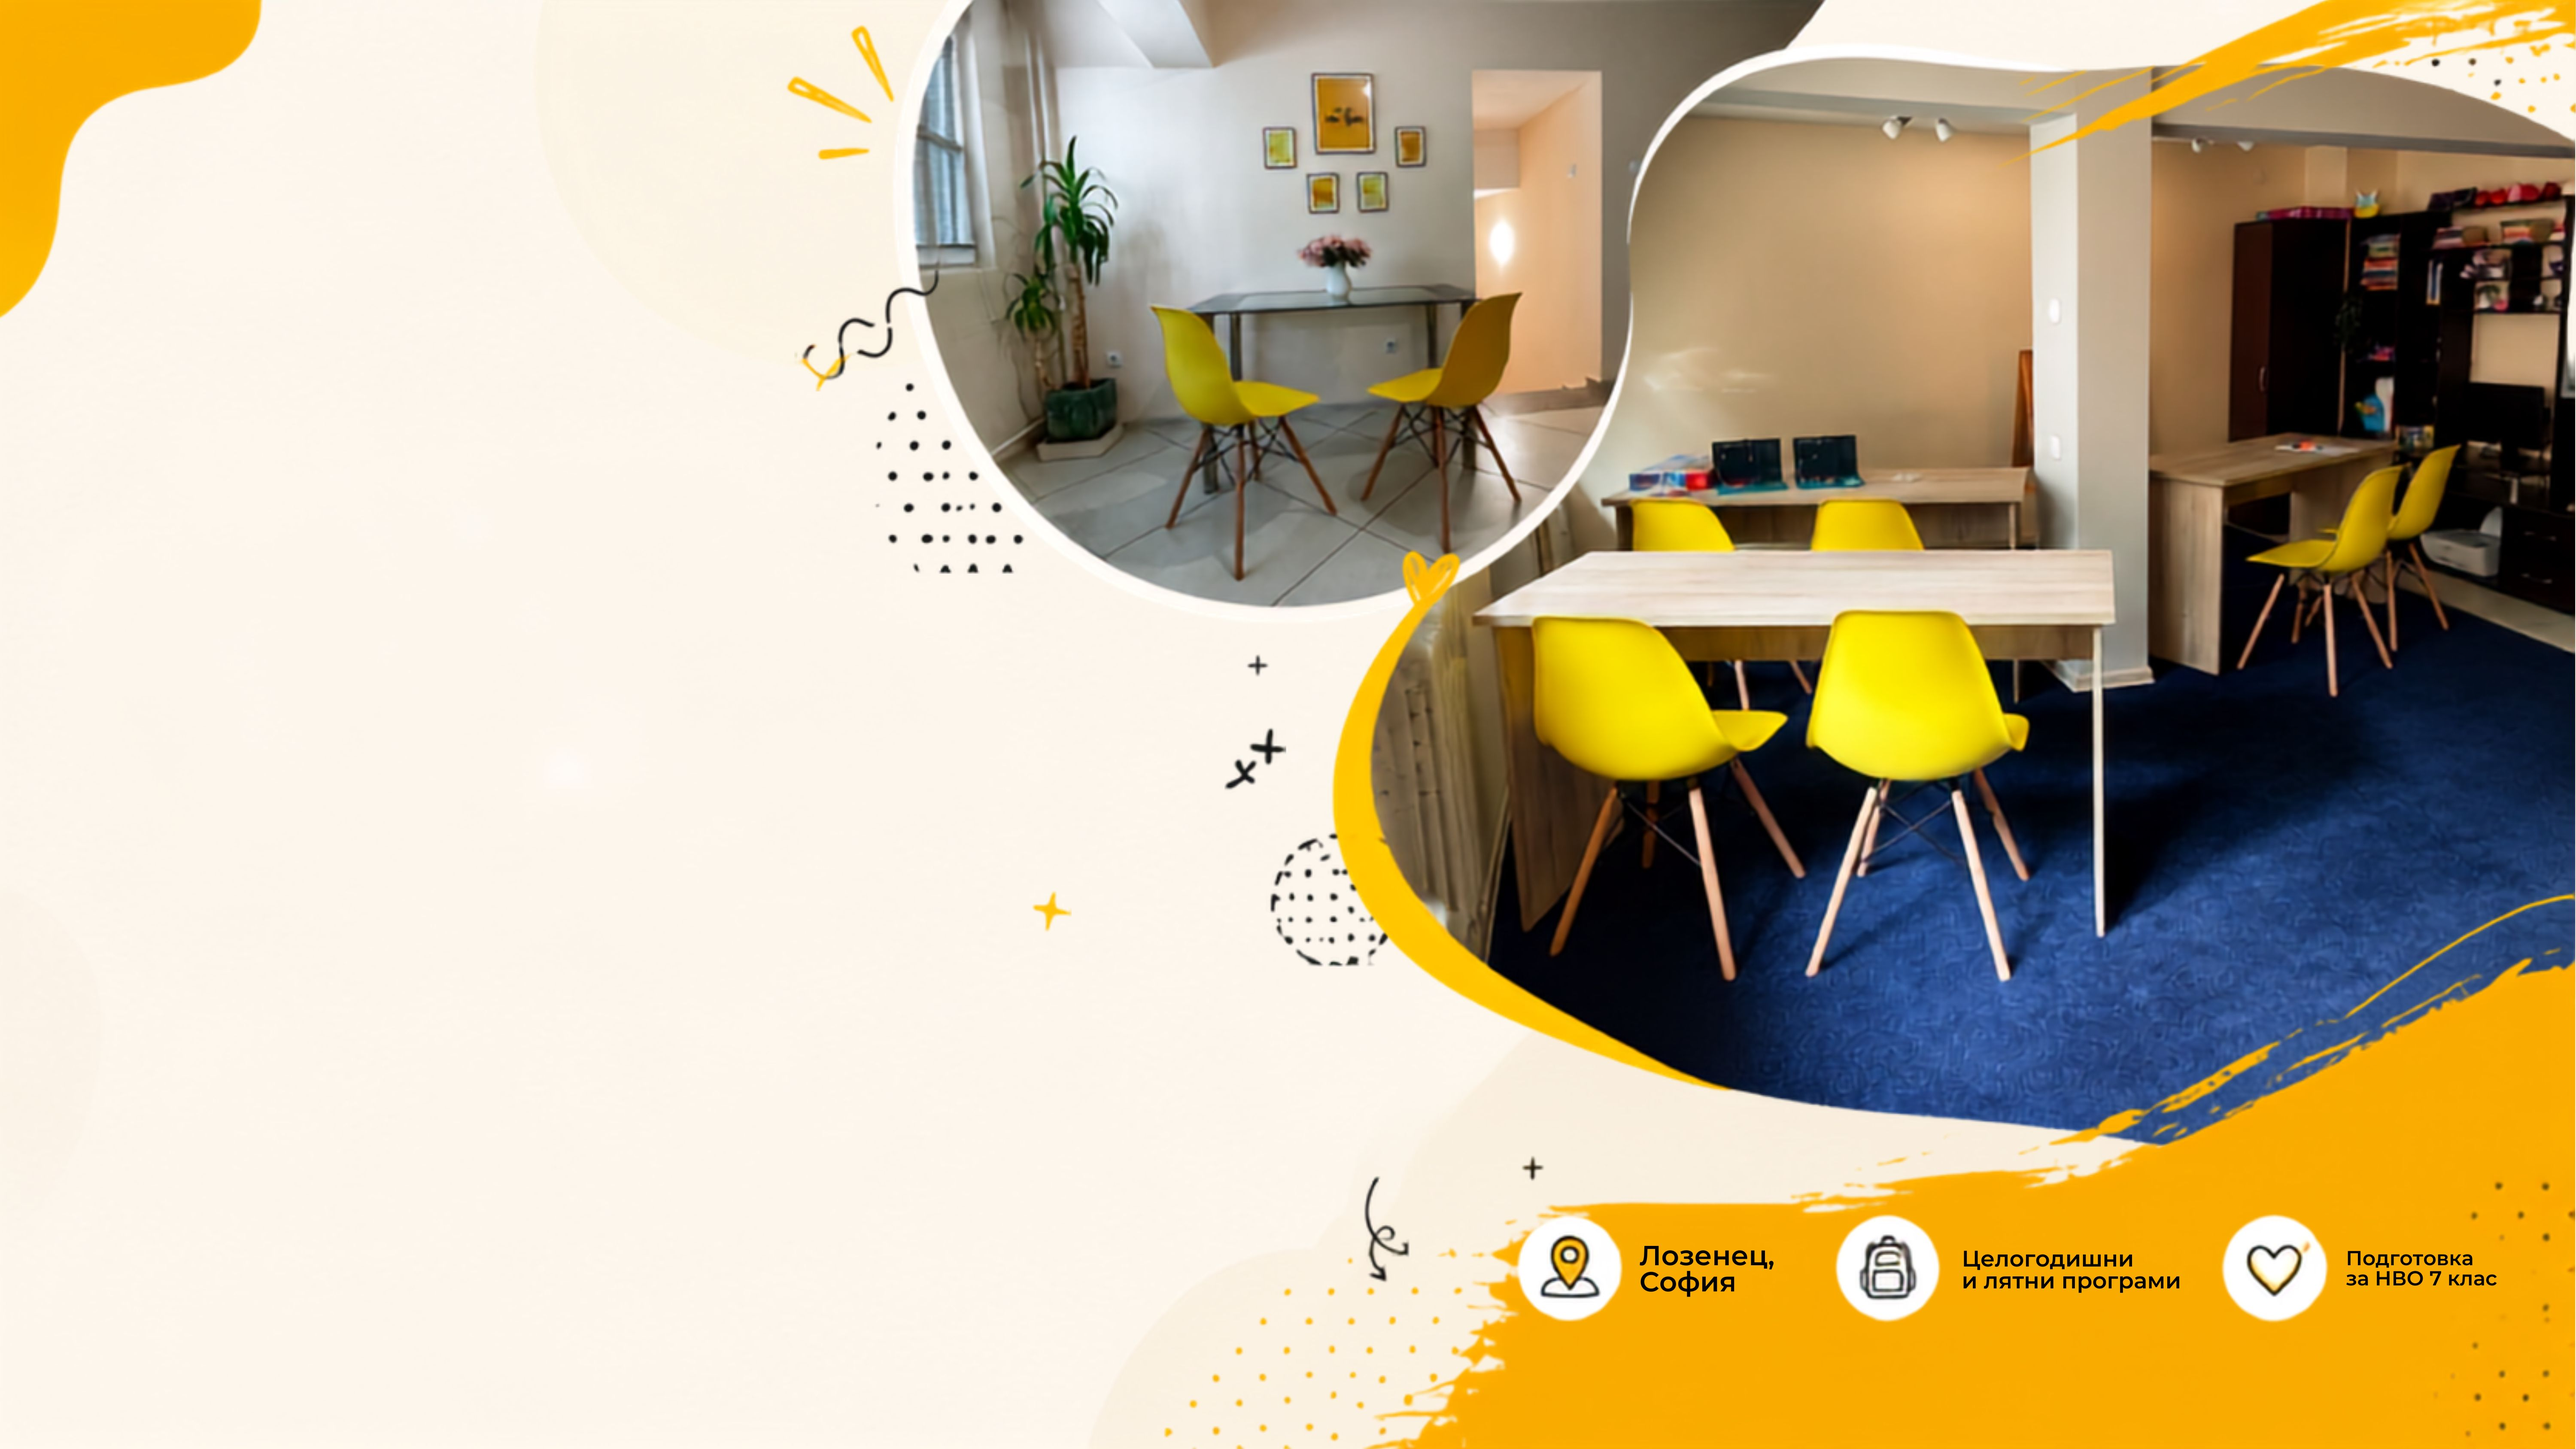
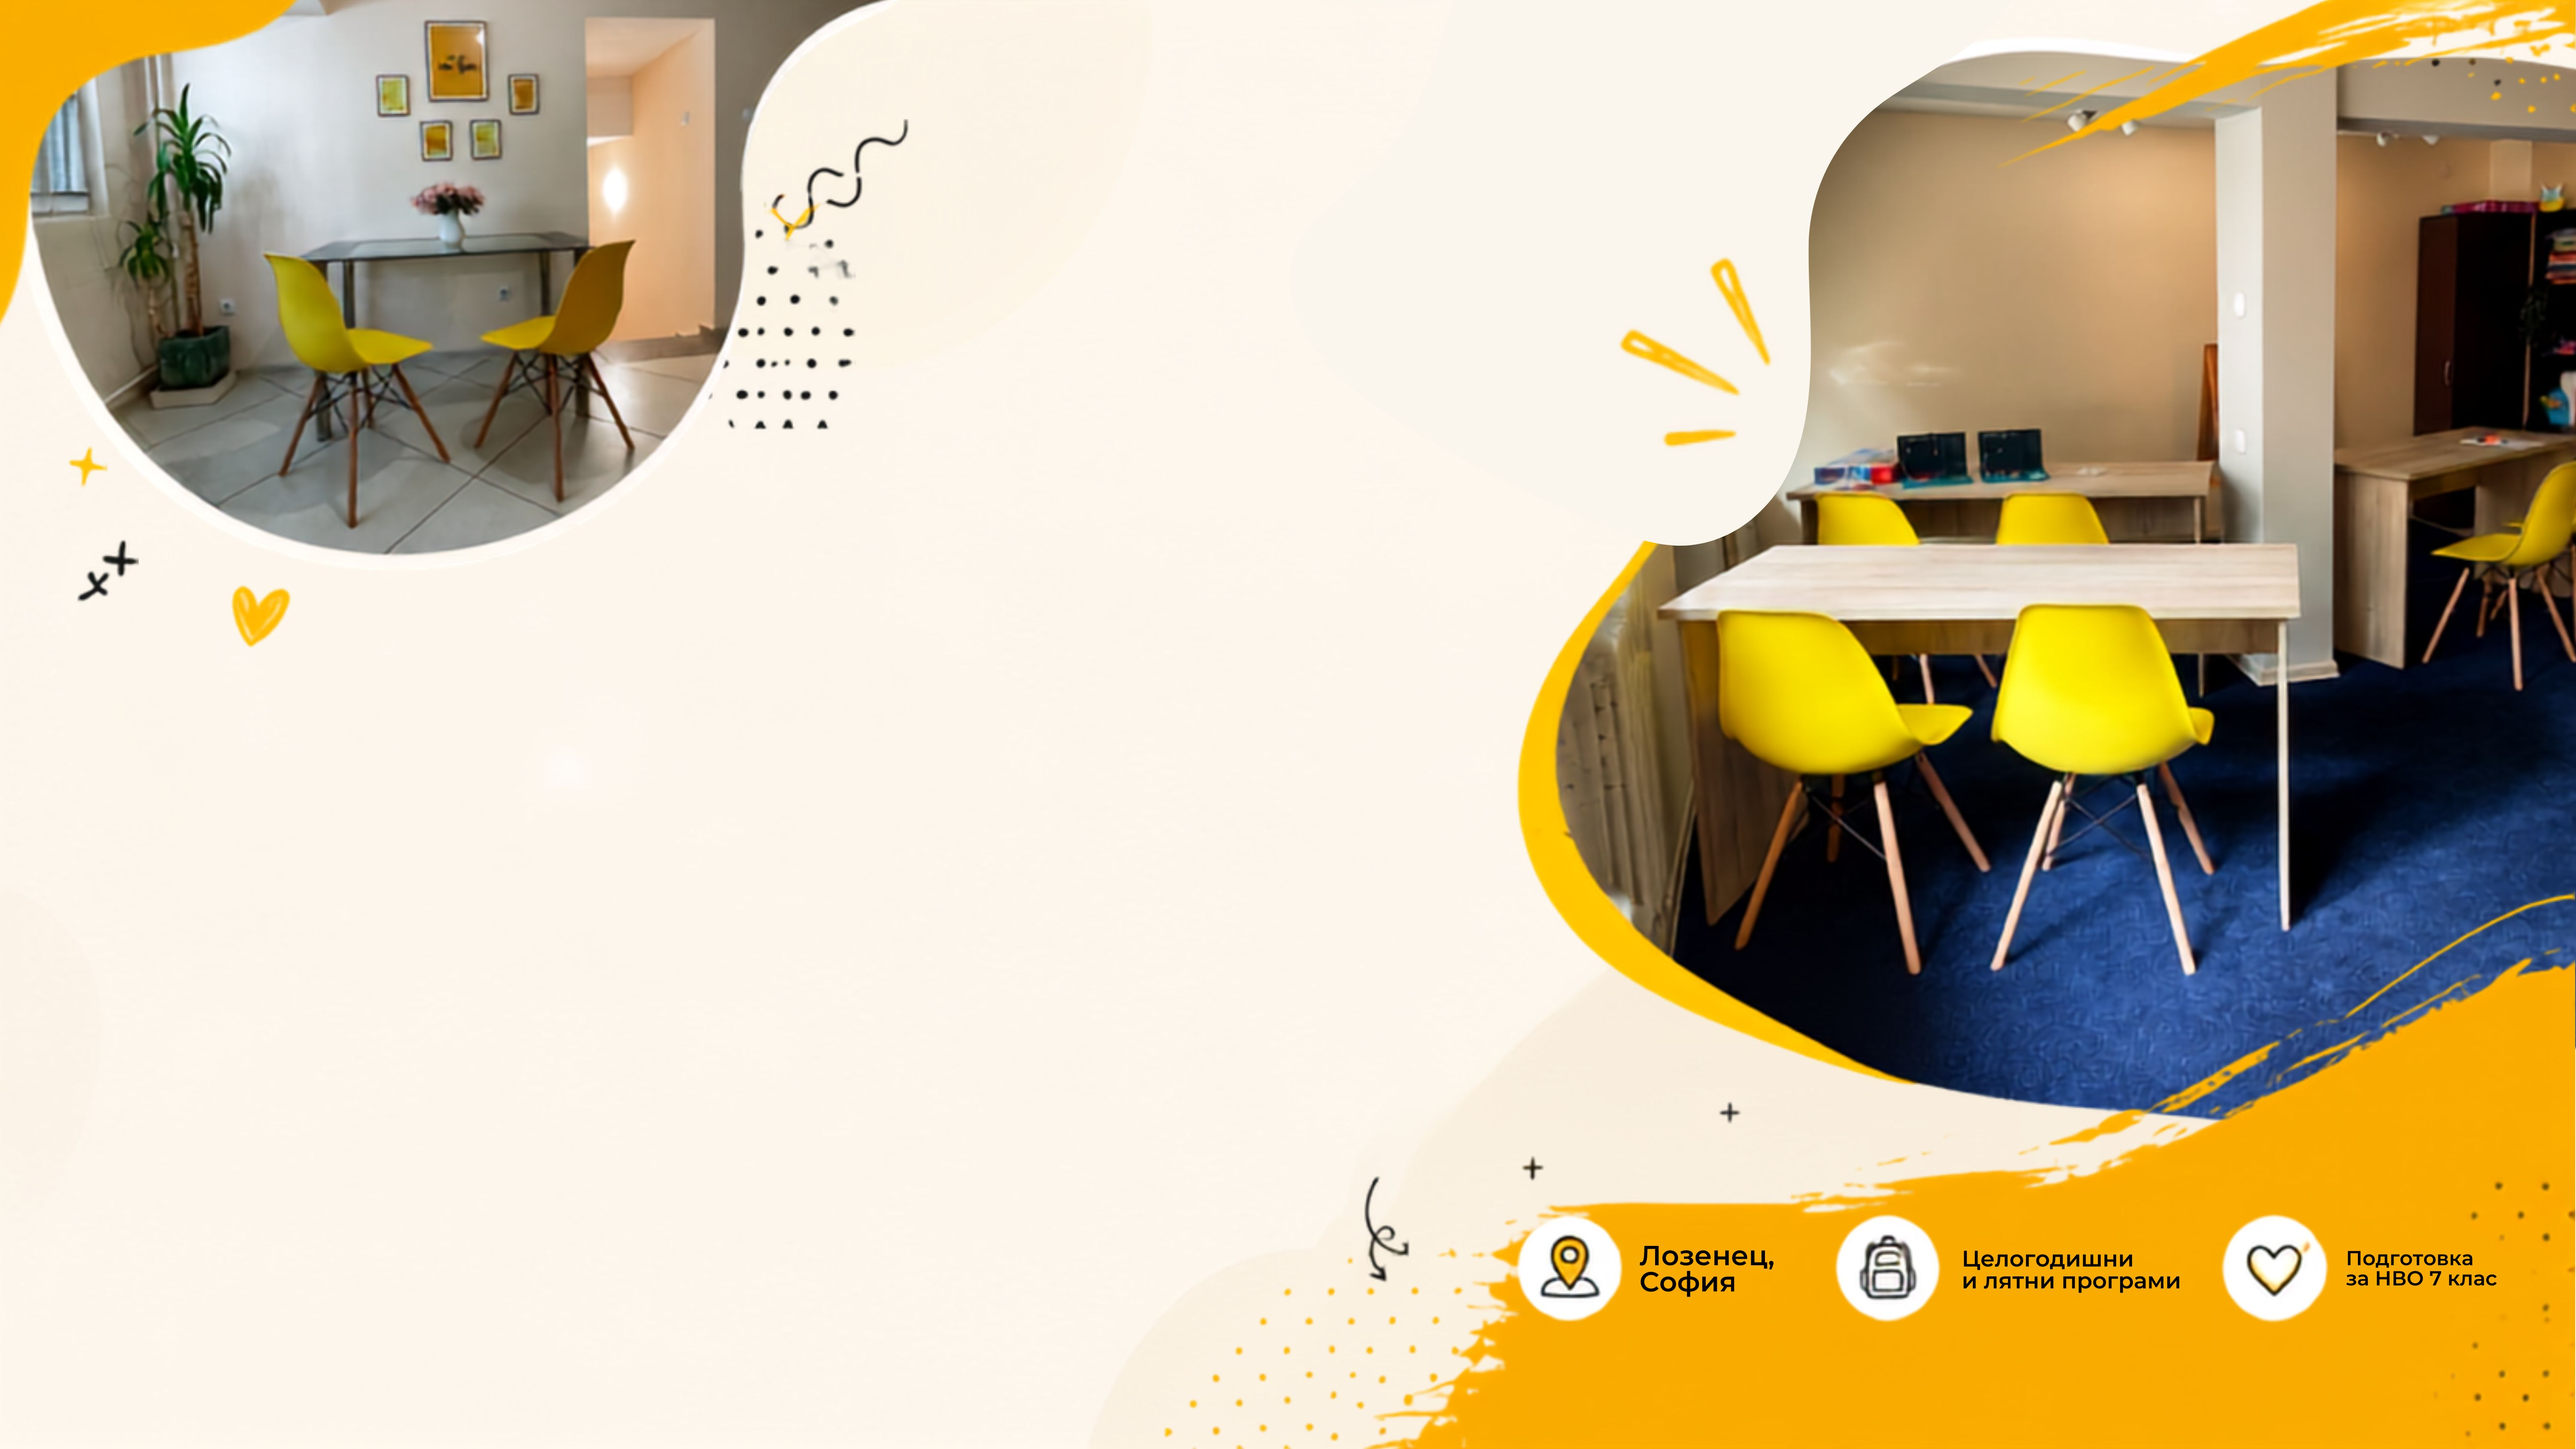
add background

diff --git a/index.html b/index.html
@@ -133,7 +133,7 @@
 
     /* ── HERO ── */
     .hero {
-      background: linear-gradient(135deg, rgba(255,250,239,0.92) 0%, rgba(255,242,213,0.85) 55%, rgba(248,227,180,0.9) 100%), url('photos/site_background.jpg') center/cover no-repeat;
+      background: url('photos/site_background.jpg') center/cover no-repeat;
       padding: 5rem 2rem 4rem;
       text-align: center;
       position: relative;
